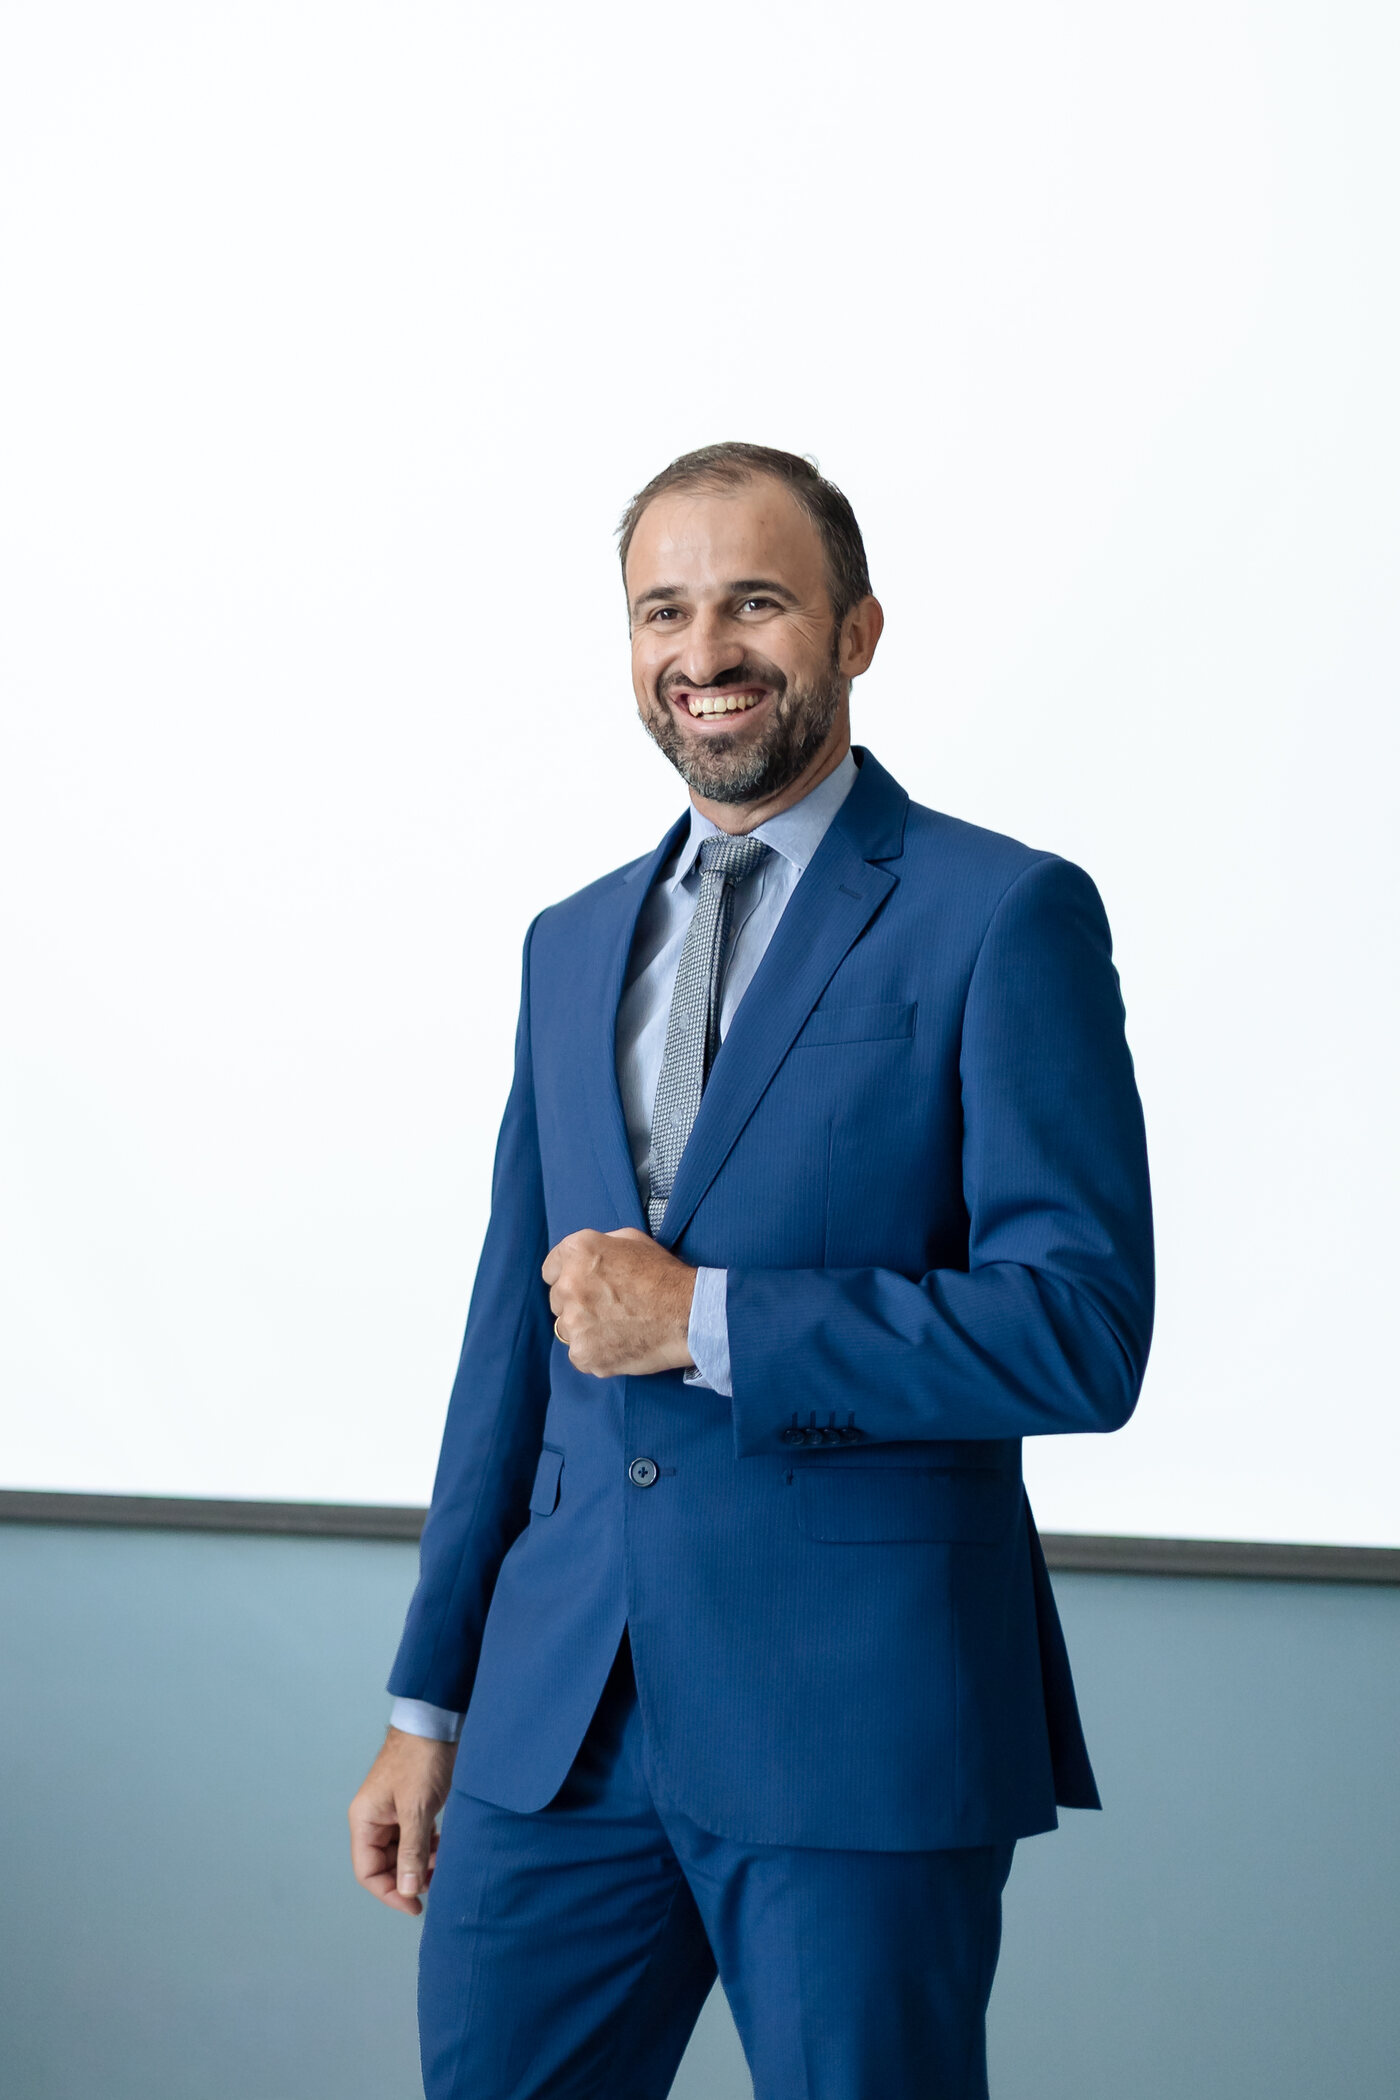
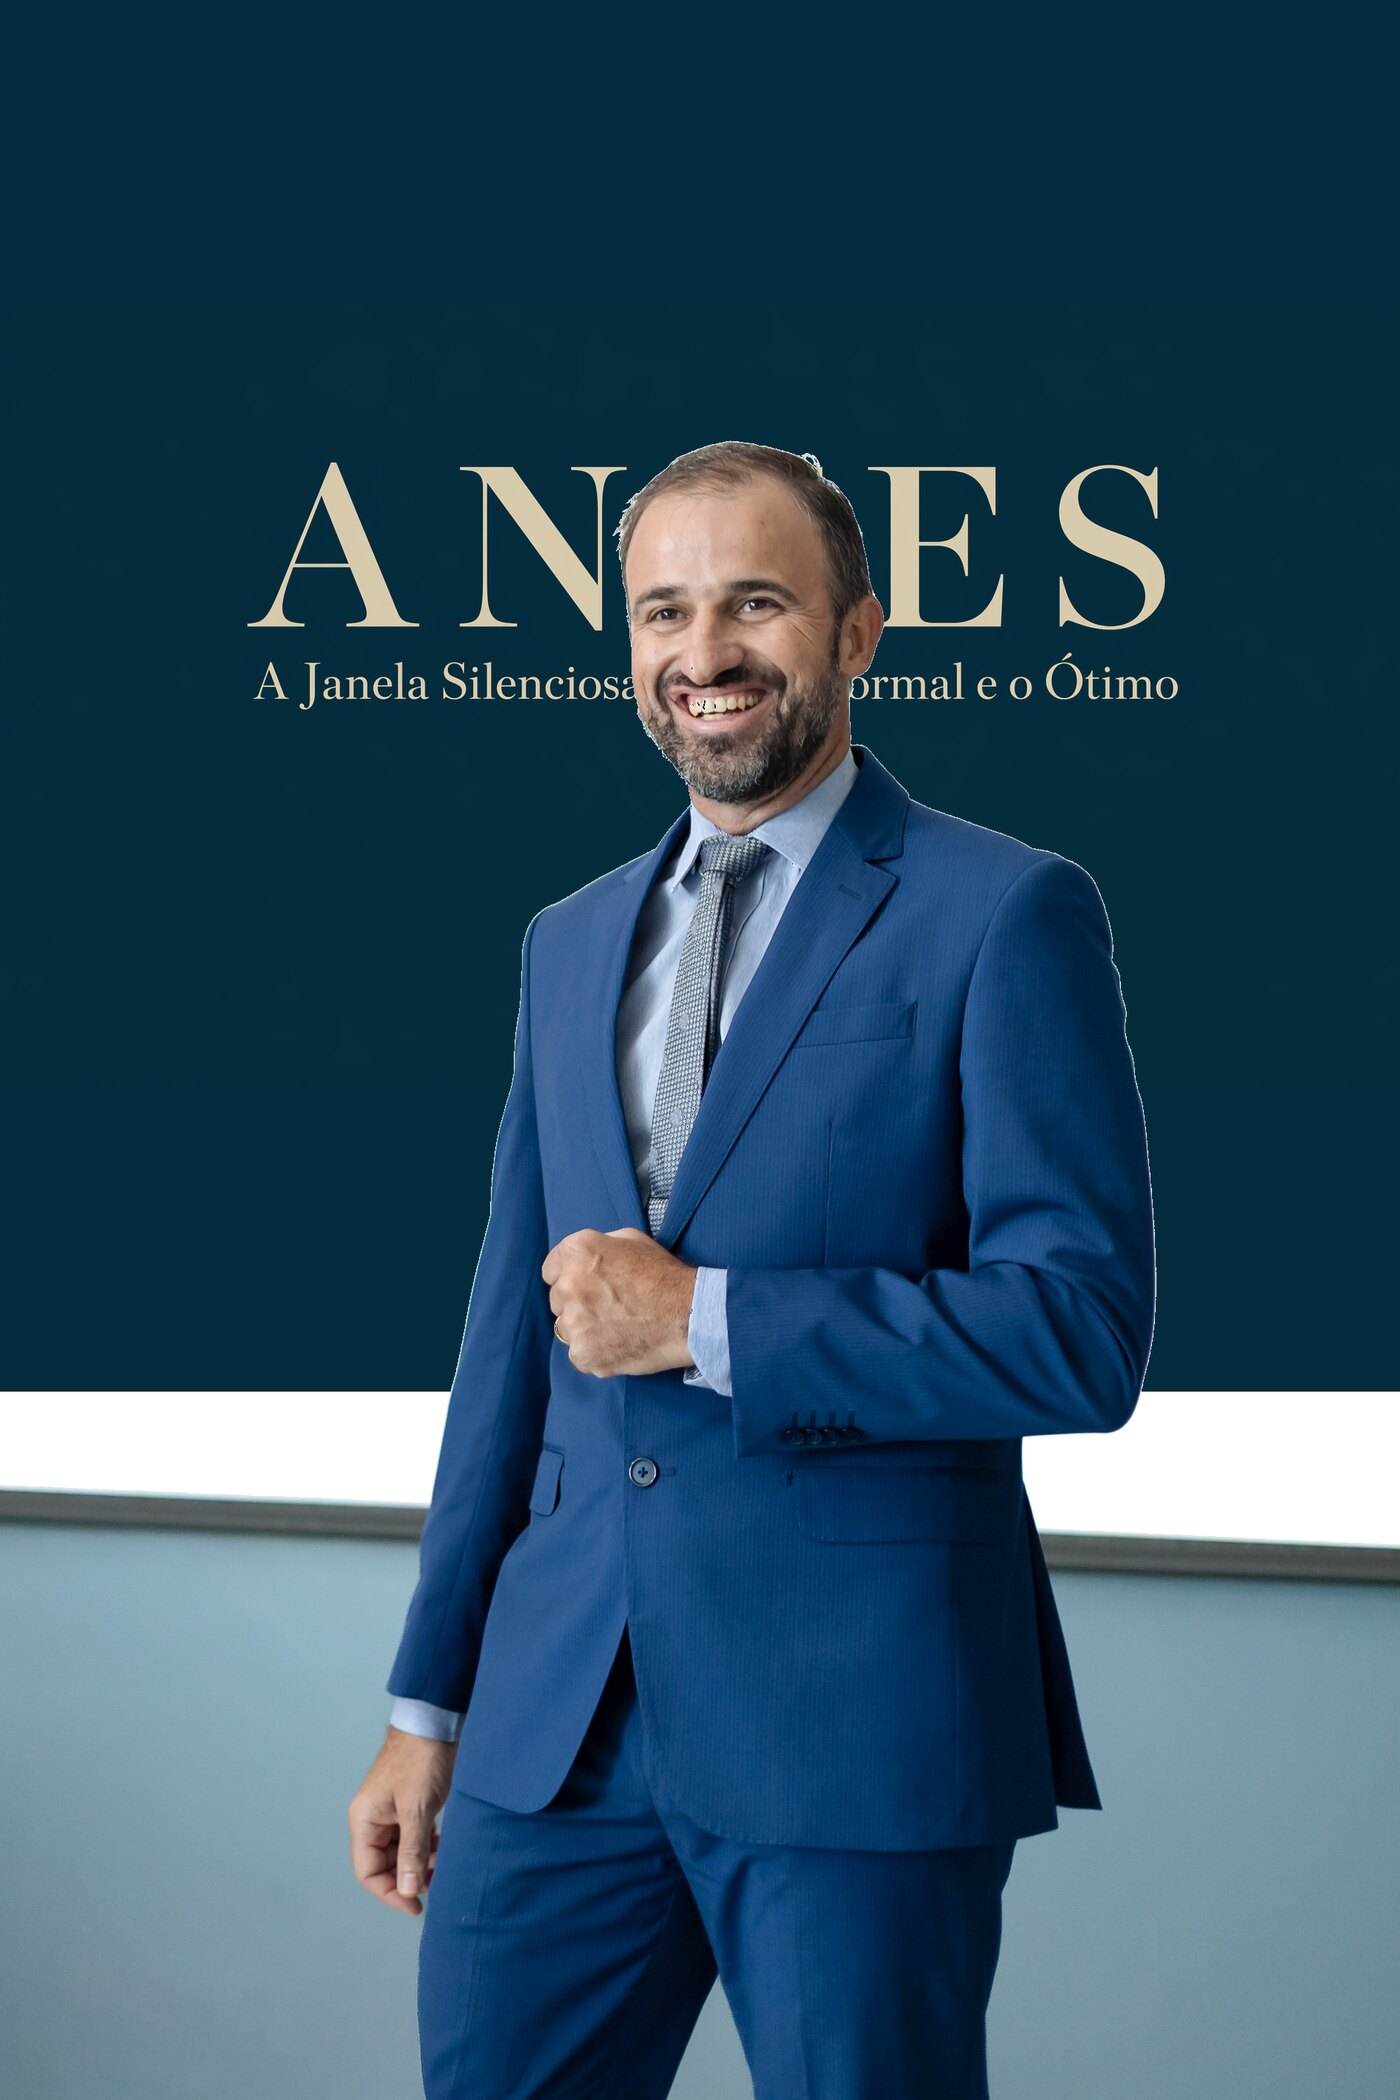
fix(site-getulio): /palestras hero — projeta slide ANTES atrás do palestrante
Antes: aspect-[16/9] em foto portrait (1891x2837) cortava tudo exceto a
cabeça do Dr. Getúlio. Agora:

- Composite novo: slide-03-title-final (ANTES — A Janela Silenciosa) é
  projetado na tela branca atrás dele via técnica de transparência (white
  pixels da tela viram buraco, slide entra como camada de fundo, figura
  preserva volumes naturais).
- Aspect responsivo: 2/3 mobile → 4/5 tablet → 3/2 desktop, mostrando
  tronco + tela inteira em vez de só a cabeça.
- object-position [center_25%] no desktop pra equilibrar slide+figura.
- Versão landscape espelhada também em apps/site/public/images/.
- Alt atualizado pra refletir conteúdo da apresentação.

diff --git a/apps/site-getulio/app/[locale]/palestras/page.tsx b/apps/site-getulio/app/[locale]/palestras/page.tsx
@@ -34,13 +34,13 @@ export default async function PalestrasPage({
       </header>
 
       <section className="editorial-container pb-16 md:pb-20">
-        <div className="relative aspect-[16/9] w-full overflow-hidden">
+        <div className="relative aspect-[2/3] sm:aspect-[3/4] md:aspect-[4/5] lg:aspect-[3/2] w-full overflow-hidden bg-paper">
           <Image
             src="/images/getulio-palestrante.jpg"
-            alt="Dr. Getúlio Amaral Filho durante palestra"
+            alt='Dr. Getúlio Amaral Filho apresentando "ANTES — A Janela Silenciosa entre o Normal e o Ótimo"'
             fill
             priority
-            className="object-cover object-top"
+            className="object-cover object-[center_top] lg:object-[center_25%]"
             sizes="(min-width: 1024px) 1100px, 100vw"
           />
         </div>
